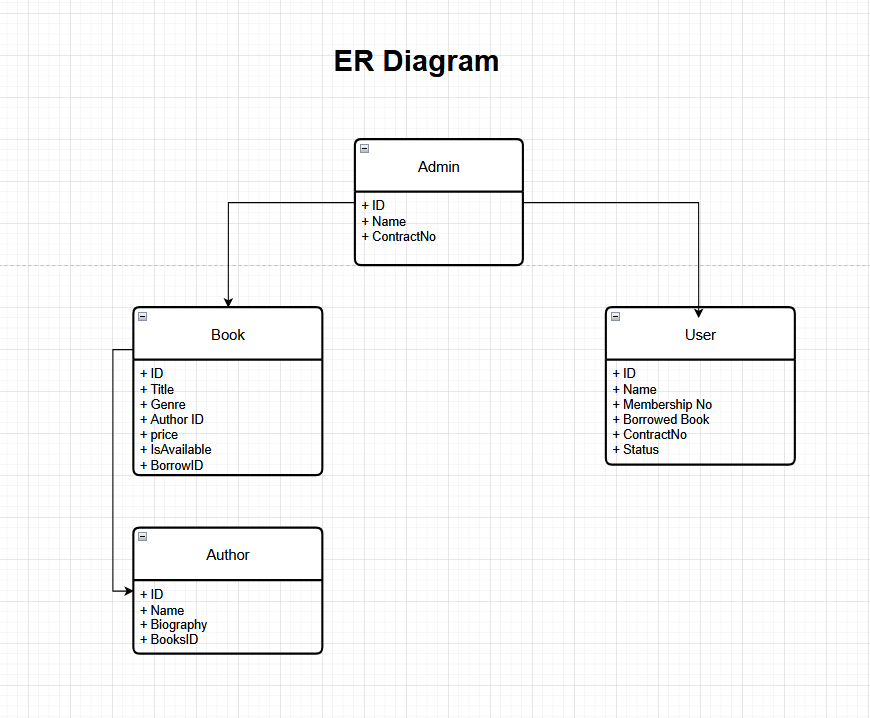
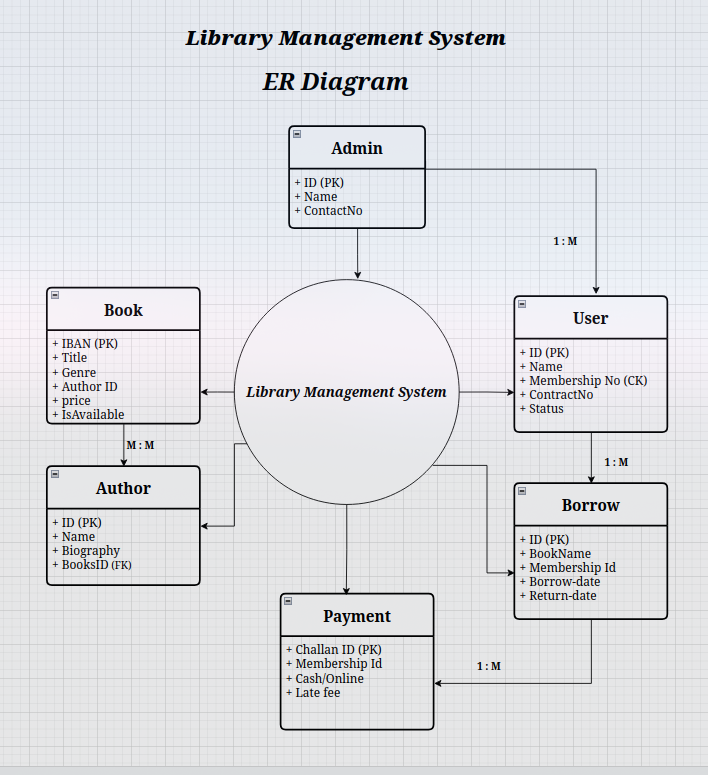
Docs, diagrams: update documentation, refresh assets, and clean up source charts
- Add 'git diff --staged > staged.log' snippet to README installation instructions
- Re-generate and update ER Diagram and Flowchart  images to match recent schema edits
- Delete obsolete 'libraryManagementSystem.drawio' source file to keep the repository clean

diff --git a/1st_Round(Technical Round)/01-Basic-University-Questions/01-OOP/Capstone Project/README.md b/1st_Round(Technical Round)/01-Basic-University-Questions/01-OOP/Capstone Project/README.md
@@ -20,3 +20,4 @@ C++ Program to store books for library. As admin you can create books, edit them
 - [SqliteC++ Wrapper](github.com/srombauts/sqlitecpp)
 - [vcpkg](https://github.com/Microsoft/vcpkg)
 - g++ testDB.cpp -o testDB -I"C:\Users\rdev\vcpkg\installed\x64-mingw-dynamic\include" -L"C:\Users\rdev\vcpkg\installed\x64-mingw-dynamic\lib" -lSQLiteCpp -lsqlite3
+- git diff --staged > staged.log